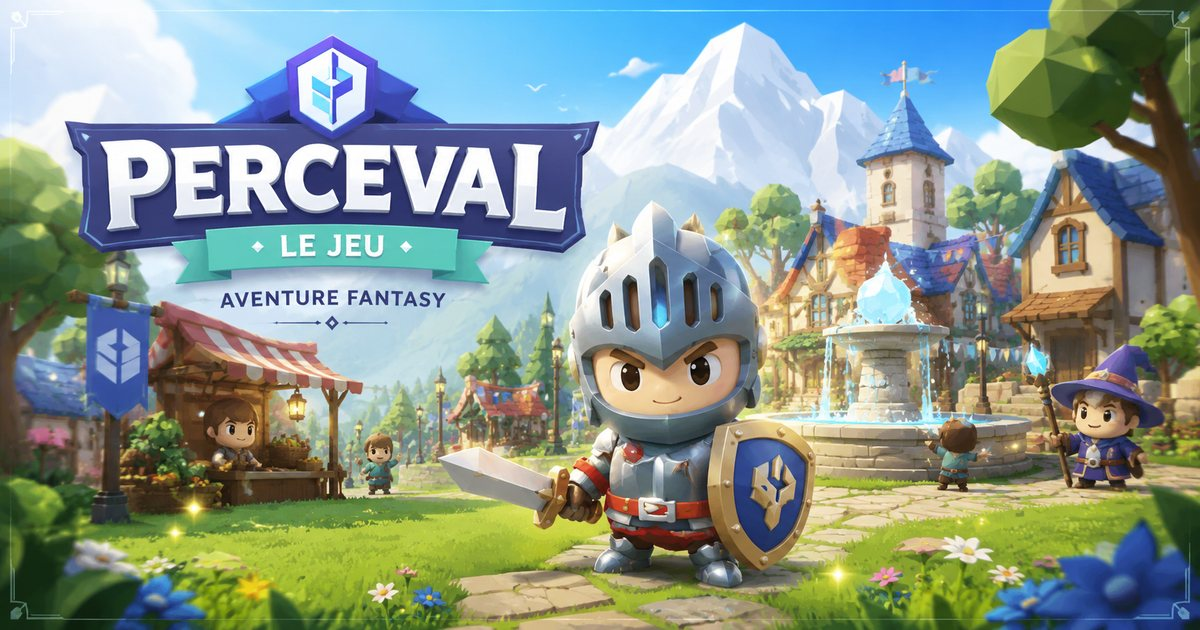
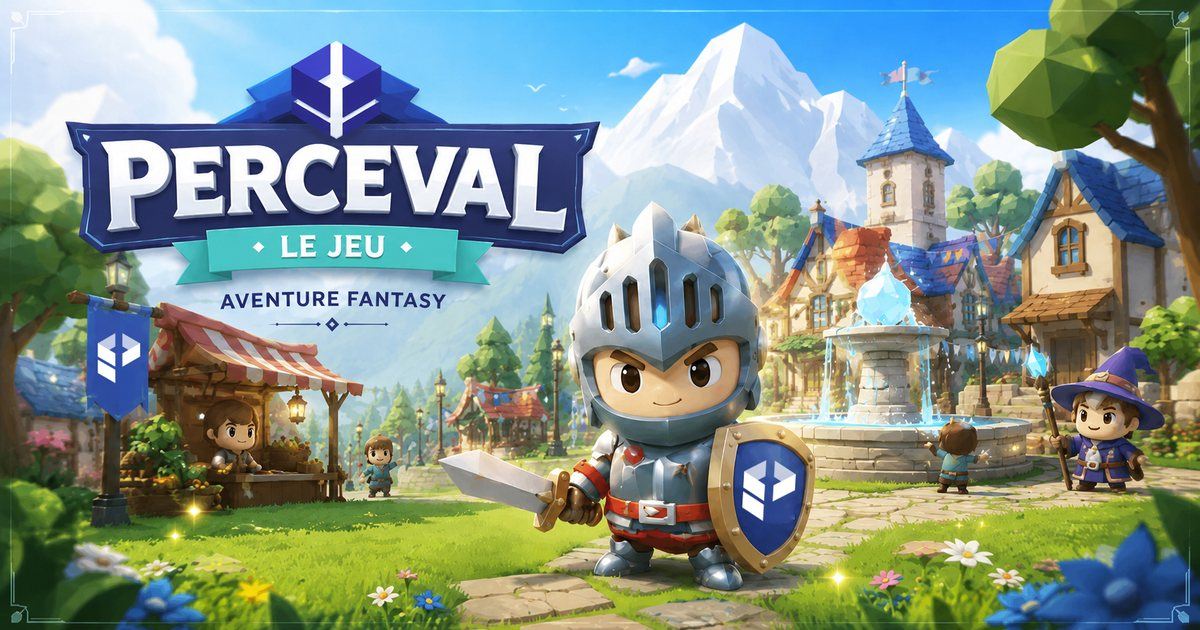
Oubliettes sublimees (massif multi-tons, arche+tunnel sombre, stalac/stalagmites, cristaux violets lumineux, mousse, cranes) ; ecran d'accueil = accueil.jpg HD plein ecran ; snippet du lien regenere reduit depuis accueil

diff --git a/index.html b/index.html
@@ -538,7 +538,7 @@ function setLoadProgress(loaded, total){
 (function(){
   const t = document.getElementById('title'); if(!t) return;
   const tryImg = (url, next)=>{ const im = new Image(); im.onload = ()=>{ t.style.backgroundImage = "url('" + url + "')"; }; im.onerror = next || null; im.src = url; };
-  tryImg('assets/accueil.jpg?v=1', ()=> tryImg('assets/accueil.png?v=1'));
+  tryImg('assets/accueil.jpg?v=2', ()=> tryImg('assets/accueil.jpeg?v=2', ()=> tryImg('assets/accueil.png?v=2')));
 })();
 const assetsPromise = (async()=>{
   const loader = new THREE.GLTFLoader();
@@ -3203,42 +3203,60 @@ function updateBuilding(dt, t){
   if(txt){ hint.style.display = 'block'; document.getElementById('interactTxt').textContent = txt; }
 }
 
-// --- les Oubliettes (grotte sombre au sud-ouest) ---
-let torchFlames = [], wispPoints, wispBase;
+// --- les Oubliettes : grotte sombre et mystique (sud-ouest) ---
+let torchFlames = [], wispPoints, wispBase, oubCrystals = [];
 {
-  // amas de rocs déchiquetés
-  const cragMat = fmat(0x4a4c5a);
-  const cragMat2 = fmat(0x585a6a);
+  const CX = -73, CZ = 81;
+  const rockDark = fmat(0x34363f), rockMid = fmat(0x474a57), rockLite = fmat(0x595d70), moss = fmat(0x47683b);
+  // MASSIF rocheux en strates : plusieurs blobs de tailles et tons variés
   const cragDefs = [
-    [-78, 84, 13, 9, 1],   [-67, 92, 7.5, 6, 2],  [-86, 76, 6, 7, 3],
-    [-71, 86, 5, 8, 4],    [-62, 84, 4, 4.5, 5],  [-82, 90, 5.5, 5, 6],
+    [-78,84,13,9,1,rockMid], [-67,92,8,6.5,2,rockDark], [-86,77,7,7.5,3,rockLite],
+    [-71,87,6,8.5,4,rockMid], [-62,85,4.5,5,5,rockDark], [-83,90,6,5.5,6,rockMid],
+    [-91,85,5,6,7,rockDark],  [-73,96,5.5,5,8,rockLite],
   ];
-  for(const [cx, cz, cr, ch, seed] of cragDefs){
-    const crag = new THREE.Mesh(blobGeo(1, 1, 0.32, seed*2.7), seed%2 ? cragMat : cragMat2);
-    crag.scale.set(cr, ch, cr*0.9);
-    crag.position.set(cx, ch*0.35, cz);
-    crag.rotation.y = seed;
-    crag.castShadow = true;
-    scene.add(crag);
-    addAO(cx, cz, cr*1.2, 0.5);
+  for(const [cx,cz,cr,ch,seed,m] of cragDefs){
+    const crag = new THREE.Mesh(blobGeo(1, 1, 0.42, seed*2.7), m);
+    crag.scale.set(cr, ch, cr*0.95); crag.position.set(cx, ch*0.32, cz); crag.rotation.y = seed; crag.castShadow = true;
+    scene.add(crag); addAO(cx, cz, cr*1.2, 0.5);
   }
-  // pics rocheux autour de l'entrée
-  for(let i=0;i<7;i++){
-    const a = -0.6 + i*0.35;
-    const px = -71.5 + Math.sin(a)*6.5, pz = 76.5 + Math.cos(a)*4 - 4;
-    const spike = cn(scene, rand(0.5,0.9), rand(1.8,3.6), 5, cragMat, px, 0.9, pz);
-    spike.rotation.z = rand(-0.15, 0.15);
+  // gros rochers anguleux (cristallins) au pied du massif
+  for(let i=0;i<11;i++){
+    const a = rand(0,6.283), rd = rand(8,16);
+    const b = new THREE.Mesh(new THREE.DodecahedronGeometry(rand(0.7,1.9), 0), i%2 ? rockDark : rockMid);
+    b.position.set(CX+Math.cos(a)*rd, rand(0.2,0.9), CZ+Math.sin(a)*rd*0.7);
+    b.rotation.set(rand(0,3), rand(0,3), rand(0,3)); b.castShadow = true; scene.add(b);
   }
-  // bouche de la grotte : anneau de pierre + fond noir
-  const mouthRing = new THREE.Mesh(new THREE.TorusGeometry(3.4, 1.0, 8, 14), cragMat2);
-  mouthRing.position.set(-71.5, 2.4, 76.5);
-  mouthRing.rotation.x = 0.12;
-  scene.add(mouthRing);
-  const mouth = new THREE.Mesh(new THREE.CircleGeometry(3.4, 16),
-    new THREE.MeshBasicMaterial({ color:0x06070f }));
-  mouth.position.set(-71.5, 2.4, 76.6);
-  mouth.rotation.x = 0.12;
-  scene.add(mouth);
+  // touffes de mousse sur le massif
+  for(let i=0;i<9;i++){ const a = rand(0,6.283), rd = rand(3,10);
+    const mb = new THREE.Mesh(blobGeo(1,1,0.5,i*3.1), moss); mb.scale.set(rand(1,2.3), 0.5, rand(1,2.3));
+    mb.position.set(CX+Math.cos(a)*rd, rand(2,6.5), CZ+Math.sin(a)*rd-4); scene.add(mb);
+  }
+  // ENTRÉE : arche rocheuse + tunnel sombre qui s'enfonce
+  const MX = -71.5, MY = 2.7, MZ = 76.4;
+  const tunnel = new THREE.Mesh(new THREE.CylinderGeometry(3.1, 3.1, 6, 18, 1, true), new THREE.MeshBasicMaterial({ color:0x05060d, side:THREE.BackSide }));
+  tunnel.rotation.x = Math.PI/2 + 0.08; tunnel.position.set(MX, MY, MZ+4); scene.add(tunnel);
+  const mouth = new THREE.Mesh(new THREE.CircleGeometry(3.25, 22), new THREE.MeshBasicMaterial({ color:0x06070f }));
+  mouth.position.set(MX, MY, MZ+0.12); mouth.rotation.x = 0.08; scene.add(mouth);
+  for(let i=0;i<=10;i++){ const a = Math.PI*(i/10); const rb = new THREE.Mesh(blobGeo(1,1,0.45,i*1.7), i%2 ? rockDark : rockMid);
+    rb.scale.setScalar(rand(0.85,1.5)); rb.position.set(MX+Math.cos(a)*3.9, MY+Math.sin(a)*4.3-0.6, MZ-0.4); rb.castShadow = true; scene.add(rb);
+  }
+  // stalactites (haut) + stalagmites (sol)
+  for(let i=0;i<5;i++){ const st = cn(scene, rand(0.18,0.32), rand(0.8,1.9), 6, rockDark, MX-2.2+i*1.1, MY+3.2, MZ+0.3); st.rotation.x = Math.PI; }
+  for(let i=0;i<7;i++){ cn(scene, rand(0.22,0.5), rand(0.7,1.7), 6, i%2?rockDark:rockMid, MX-3+rand(-0.5,6.5), 0.5, MZ-2.6+rand(-1.2,1.2)); }
+  // CRISTAUX violets lumineux autour de l'entrée + lueur
+  const crystalMat = new THREE.MeshStandardMaterial({ color:0x9a6fe0, emissive:0x7a3fd0, emissiveIntensity:1.2, roughness:0.2, metalness:0.1, transparent:true, opacity:0.92 });
+  for(const [cx,cyv,cz,s] of [[-68,0.7,75,1],[-75.5,0.8,74.4,1.3],[-69.3,1.3,77.3,0.8],[-74.2,1.8,77.6,0.9],[-71.5,4.7,77.2,1.1],[-65.6,1.0,79,0.7],[-77,0.6,78,1.0]]){
+    const cr = new THREE.Mesh(new THREE.OctahedronGeometry(0.5*s, 0), crystalMat);
+    cr.scale.y = 1.9; cr.position.set(cx, cyv, cz); cr.rotation.y = rand(0,3); scene.add(cr); oubCrystals.push(cr);
+  }
+  const glow = new THREE.PointLight(0x8a4fe0, 1.4, 18, 2); glow.position.set(MX, MY, MZ+0.6); scene.add(glow);
+  // crânes & ossements (thème oubliettes)
+  const bone = fmat(0xcfc7b2);
+  for(const [sx,sz] of [[-66,74],[-78,73.5],[-69,73]]){
+    const sk = new THREE.Mesh(new THREE.SphereGeometry(0.22,10,8), bone); sk.scale.set(1,0.92,1.05); sk.position.set(sx,0.22,sz); scene.add(sk);
+    for(const ex of [-0.08,0.08]) addMesh(scene, new THREE.SphereGeometry(0.05,6,5), mat(0x14141a), sx+ex, 0.24, sz+0.18);
+    bx(scene, 0.26, 0.05, 0.05, bone, sx, 0.06, sz+0.25); bx(scene, 0.26, 0.05, 0.05, bone, sx+0.1, 0.06, sz+0.32);  // os
+  }
   // torches de part et d'autre
   for(const tx of [-76.2, -66.8]){
     const tg = new THREE.Group();
@@ -3288,6 +3306,8 @@ let torchFlames = [], wispPoints, wispBase;
   addCollider(-78, 84, 12);
   addCollider(-67, 92, 7);
   addCollider(-86, 76, 6);
+  addCollider(-91, 85, 5);
+  addCollider(-73, 96, 5);
   addCollider(-65, 70, 0.4);
 }
 function updateOubliettes(dt, t){
@@ -3298,6 +3318,7 @@ function updateOubliettes(dt, t){
     if(Math.random() < dt*3) spawnPuff(f.pos, { color:0x55585f, scale:0.25, growth:0.4, rise:0.8, life:1.4, opacity:0.3, drift:0.1 });
   }
   if(torchFlames.light) torchFlames.light.intensity = 1.0 + Math.sin(t*13)*0.2 + Math.sin(t*29)*0.12;
+  if(oubCrystals.length){ const ei = 1.0 + Math.sin(t*2)*0.45; for(const c of oubCrystals){ c.rotation.y += dt*0.5; c.material.emissiveIntensity = ei; } }   // cristaux qui pulsent
   if(wispPoints){
     const arr = wispPoints.geometry.attributes.position.array;
     for(let i=0;i<wispBase.length;i++){
